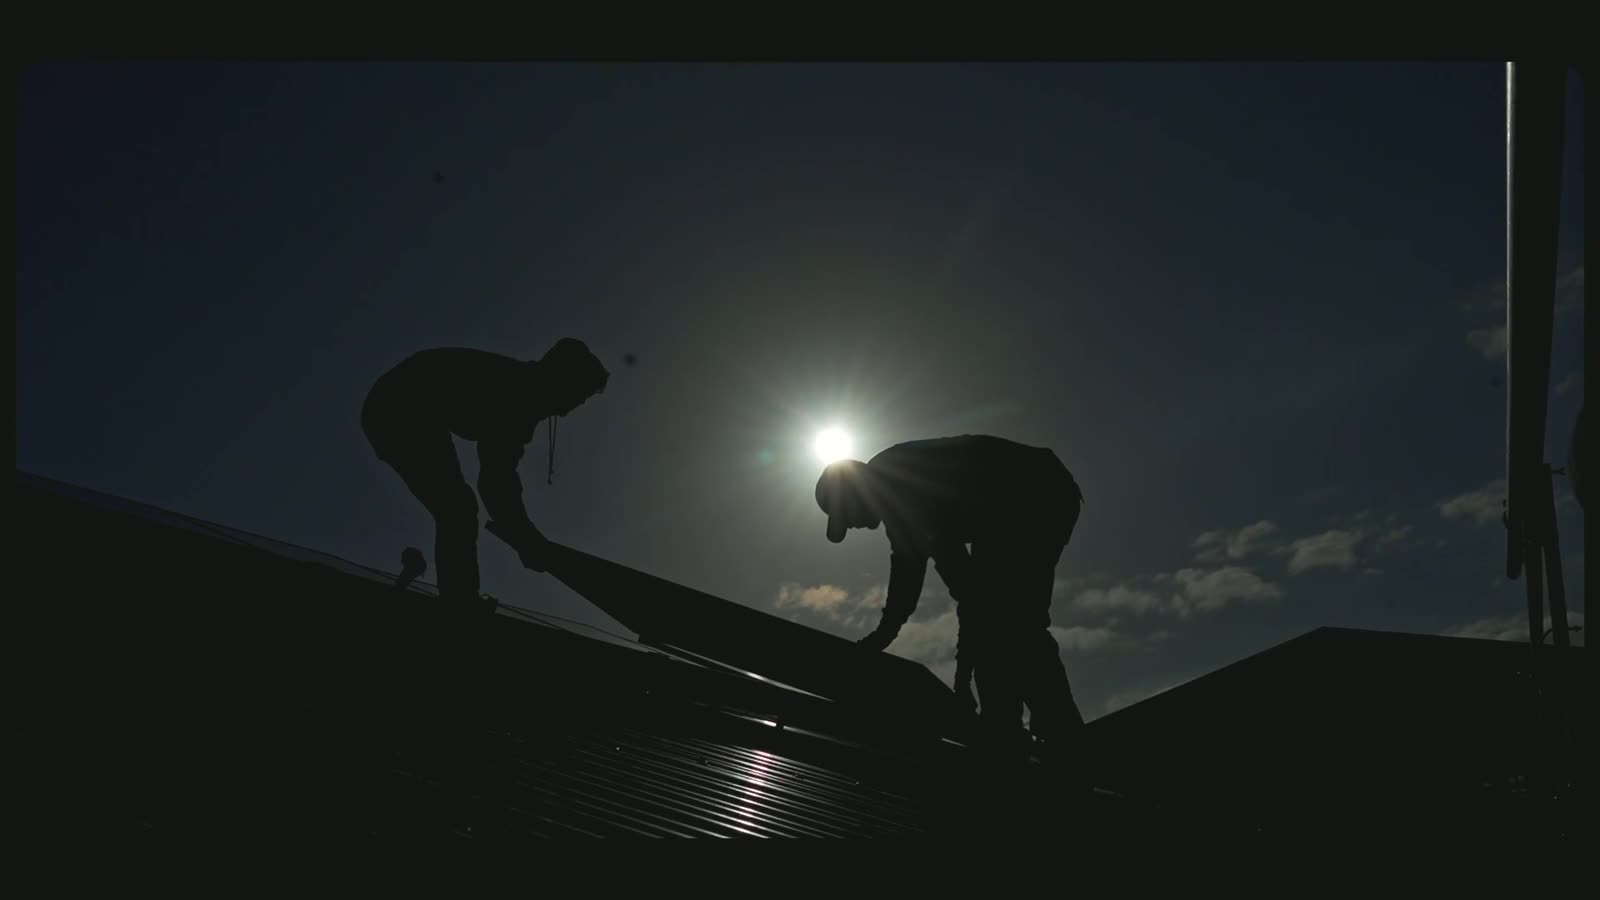
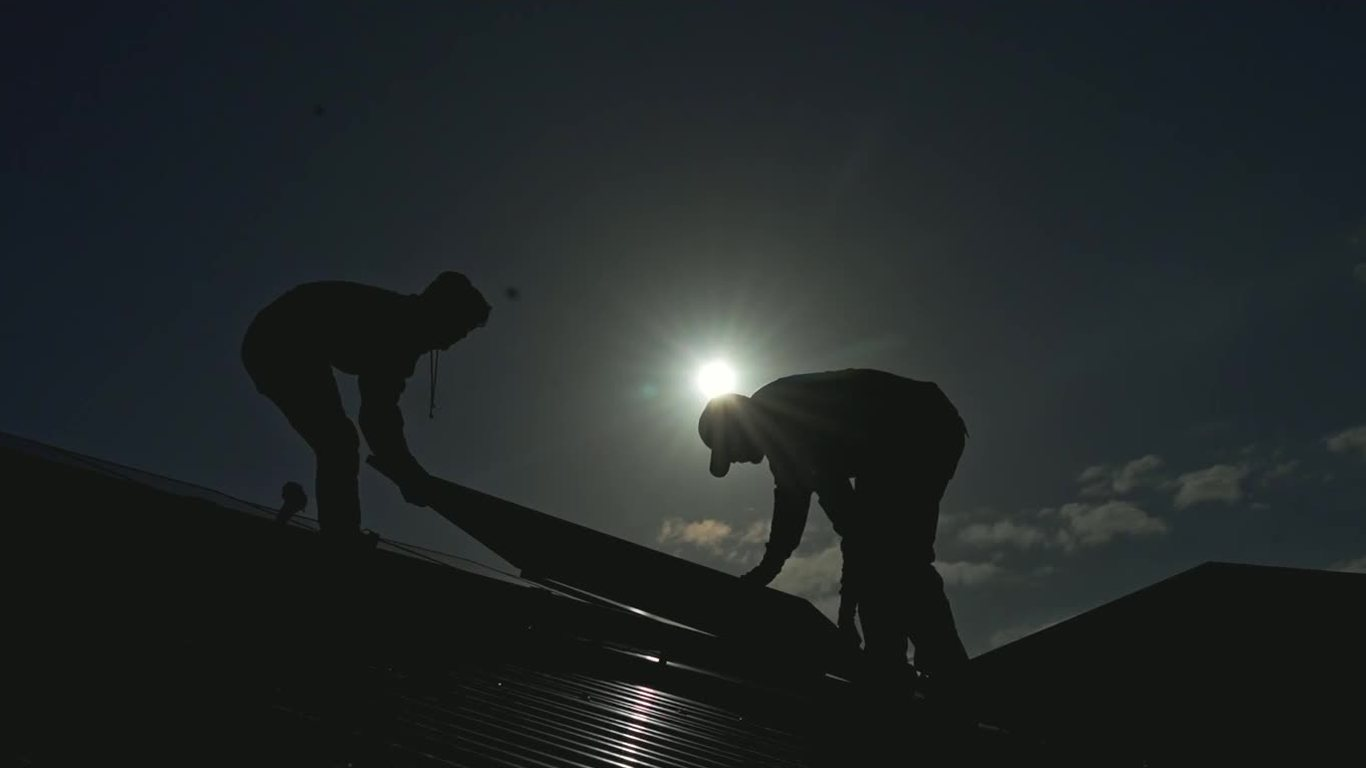
Services page: photo cards, quote card, letterbox-free photos
- /services/ cards now show each service's real job photo (800px WebP + JPG fallback, lazy below the fold); whole card is the link
- Sixth grid slot is a quote card linking to /contact/#quote plus click-to-call
- Cropped the baked-in black letterbox bars from all 5 service photos (fixes service page heroes too)

Claude-Session: https://claude.ai/code/session_01BuUto5fdgcP3dCGfyPMrWw

diff --git a/src/assets/css/main.css b/src/assets/css/main.css
@@ -439,3 +439,22 @@ tr:last-child td{border-bottom:0}
   .mh-line>span,.mh-in,.site-header.is-overlay:not(.scrolled),.quote-dialog[open]{animation:none}
   .mhero-video{display:none}
 }
+
+/* Services index — photo cards (whole card is the link) */
+.svc-photo-card{display:flex;flex-direction:column;background:var(--surface);border:1px solid var(--line);border-radius:var(--radius);overflow:hidden;text-decoration:none;color:inherit;transition:transform .18s,box-shadow .18s,border-color .18s}
+.svc-photo-card:hover{transform:translateY(-3px);box-shadow:0 14px 30px rgba(20,18,17,.10);border-color:#e2d4c4}
+.svc-photo-card:focus-visible{outline:3px solid var(--brand-ui);outline-offset:3px}
+.svc-photo-media{position:relative;aspect-ratio:16/9;background:var(--dusk)}
+.svc-photo-media img{width:100%;height:100%;object-fit:cover;display:block;transition:transform .5s ease}
+.svc-photo-card:hover .svc-photo-media img{transform:scale(1.04)}
+.svc-photo-media .card-icon{position:absolute;left:1.4rem;bottom:-25px;margin:0;background:var(--surface);box-shadow:0 6px 16px rgba(20,18,17,.14);border:1px solid var(--line)}
+.svc-photo-body{padding:2.1rem 1.6rem 1.6rem;display:flex;flex-direction:column;flex:1}
+.svc-photo-body h2{font-size:1.2rem;margin-bottom:.55rem}
+.svc-photo-body p{color:var(--ink-soft);font-size:.97rem;flex:1}
+.svc-photo-card .card-link{display:inline-block;margin-top:.9rem;font-weight:600;color:var(--brand-deep);text-decoration:underline;text-underline-offset:4px;text-decoration-thickness:2px;text-decoration-color:var(--accent)}
+@media (prefers-reduced-motion:reduce){.svc-photo-card,.svc-photo-media img{transition:none}.svc-photo-card:hover .svc-photo-media img{transform:none}}
+.svc-cta-card{display:flex;flex-direction:column;justify-content:center;align-items:flex-start;gap:.8rem;padding:2rem 1.8rem;border-radius:var(--radius);background:linear-gradient(150deg,#141110,#241c17 70%,#3a2416);color:#fff}
+.svc-cta-card h2{font-size:1.45rem;color:#fff}
+.svc-cta-card p{color:#d6cec6;font-size:.97rem}
+.svc-cta-card .btn{margin-top:.4rem}
+.svc-cta-call{color:#fff;font-weight:600;text-underline-offset:4px}
